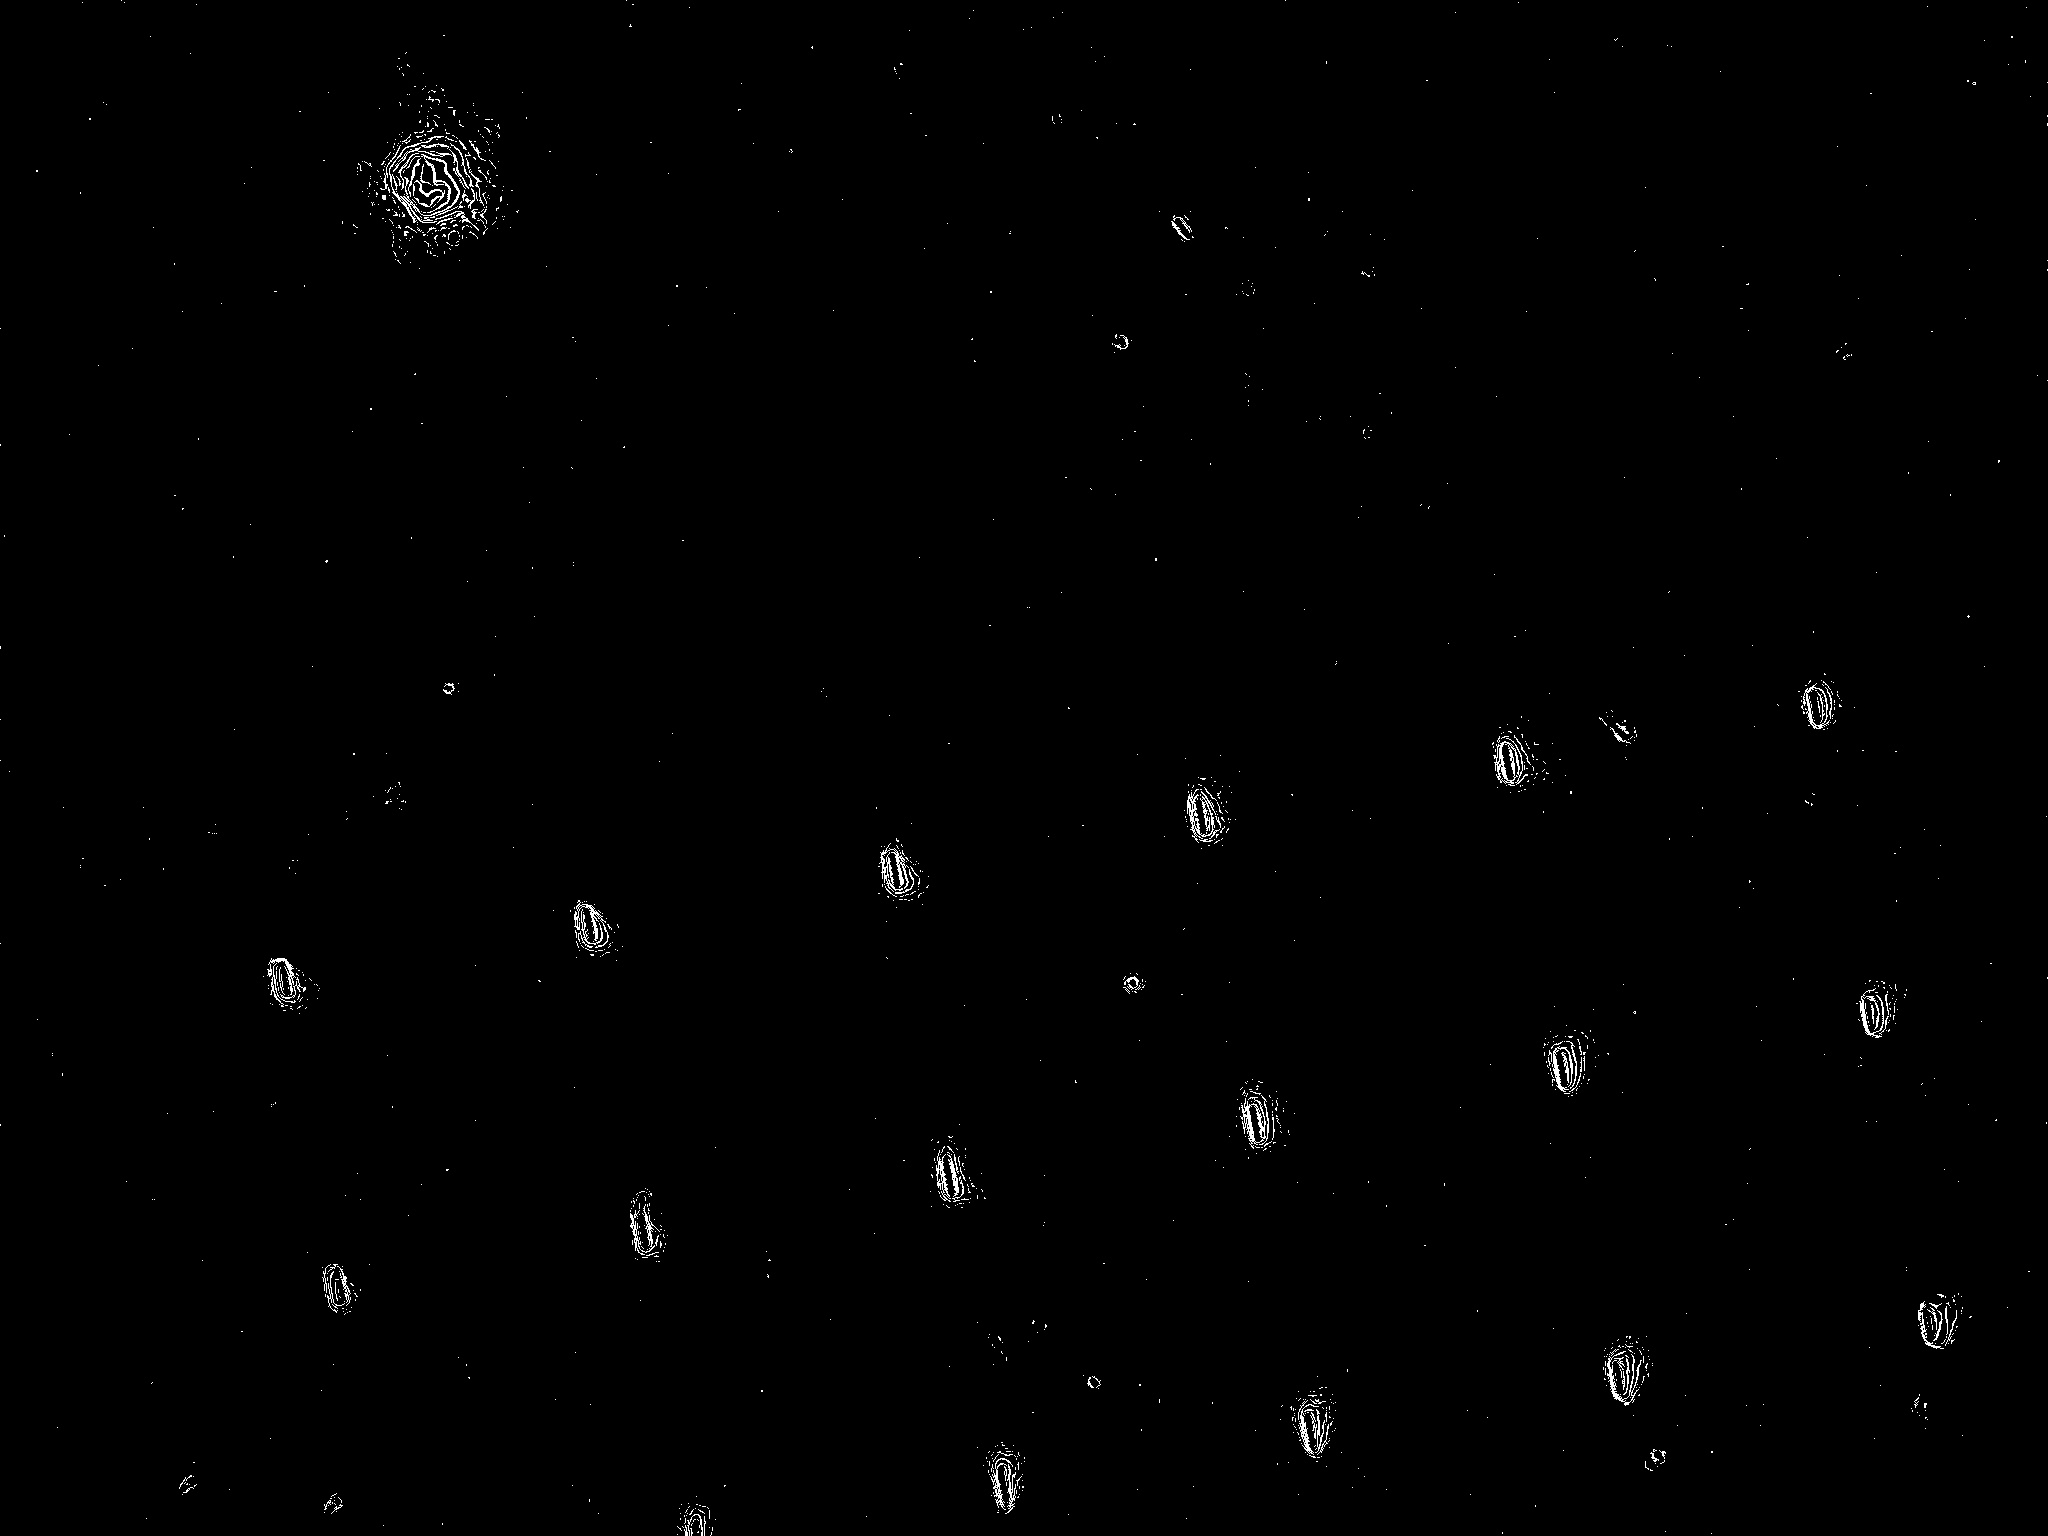
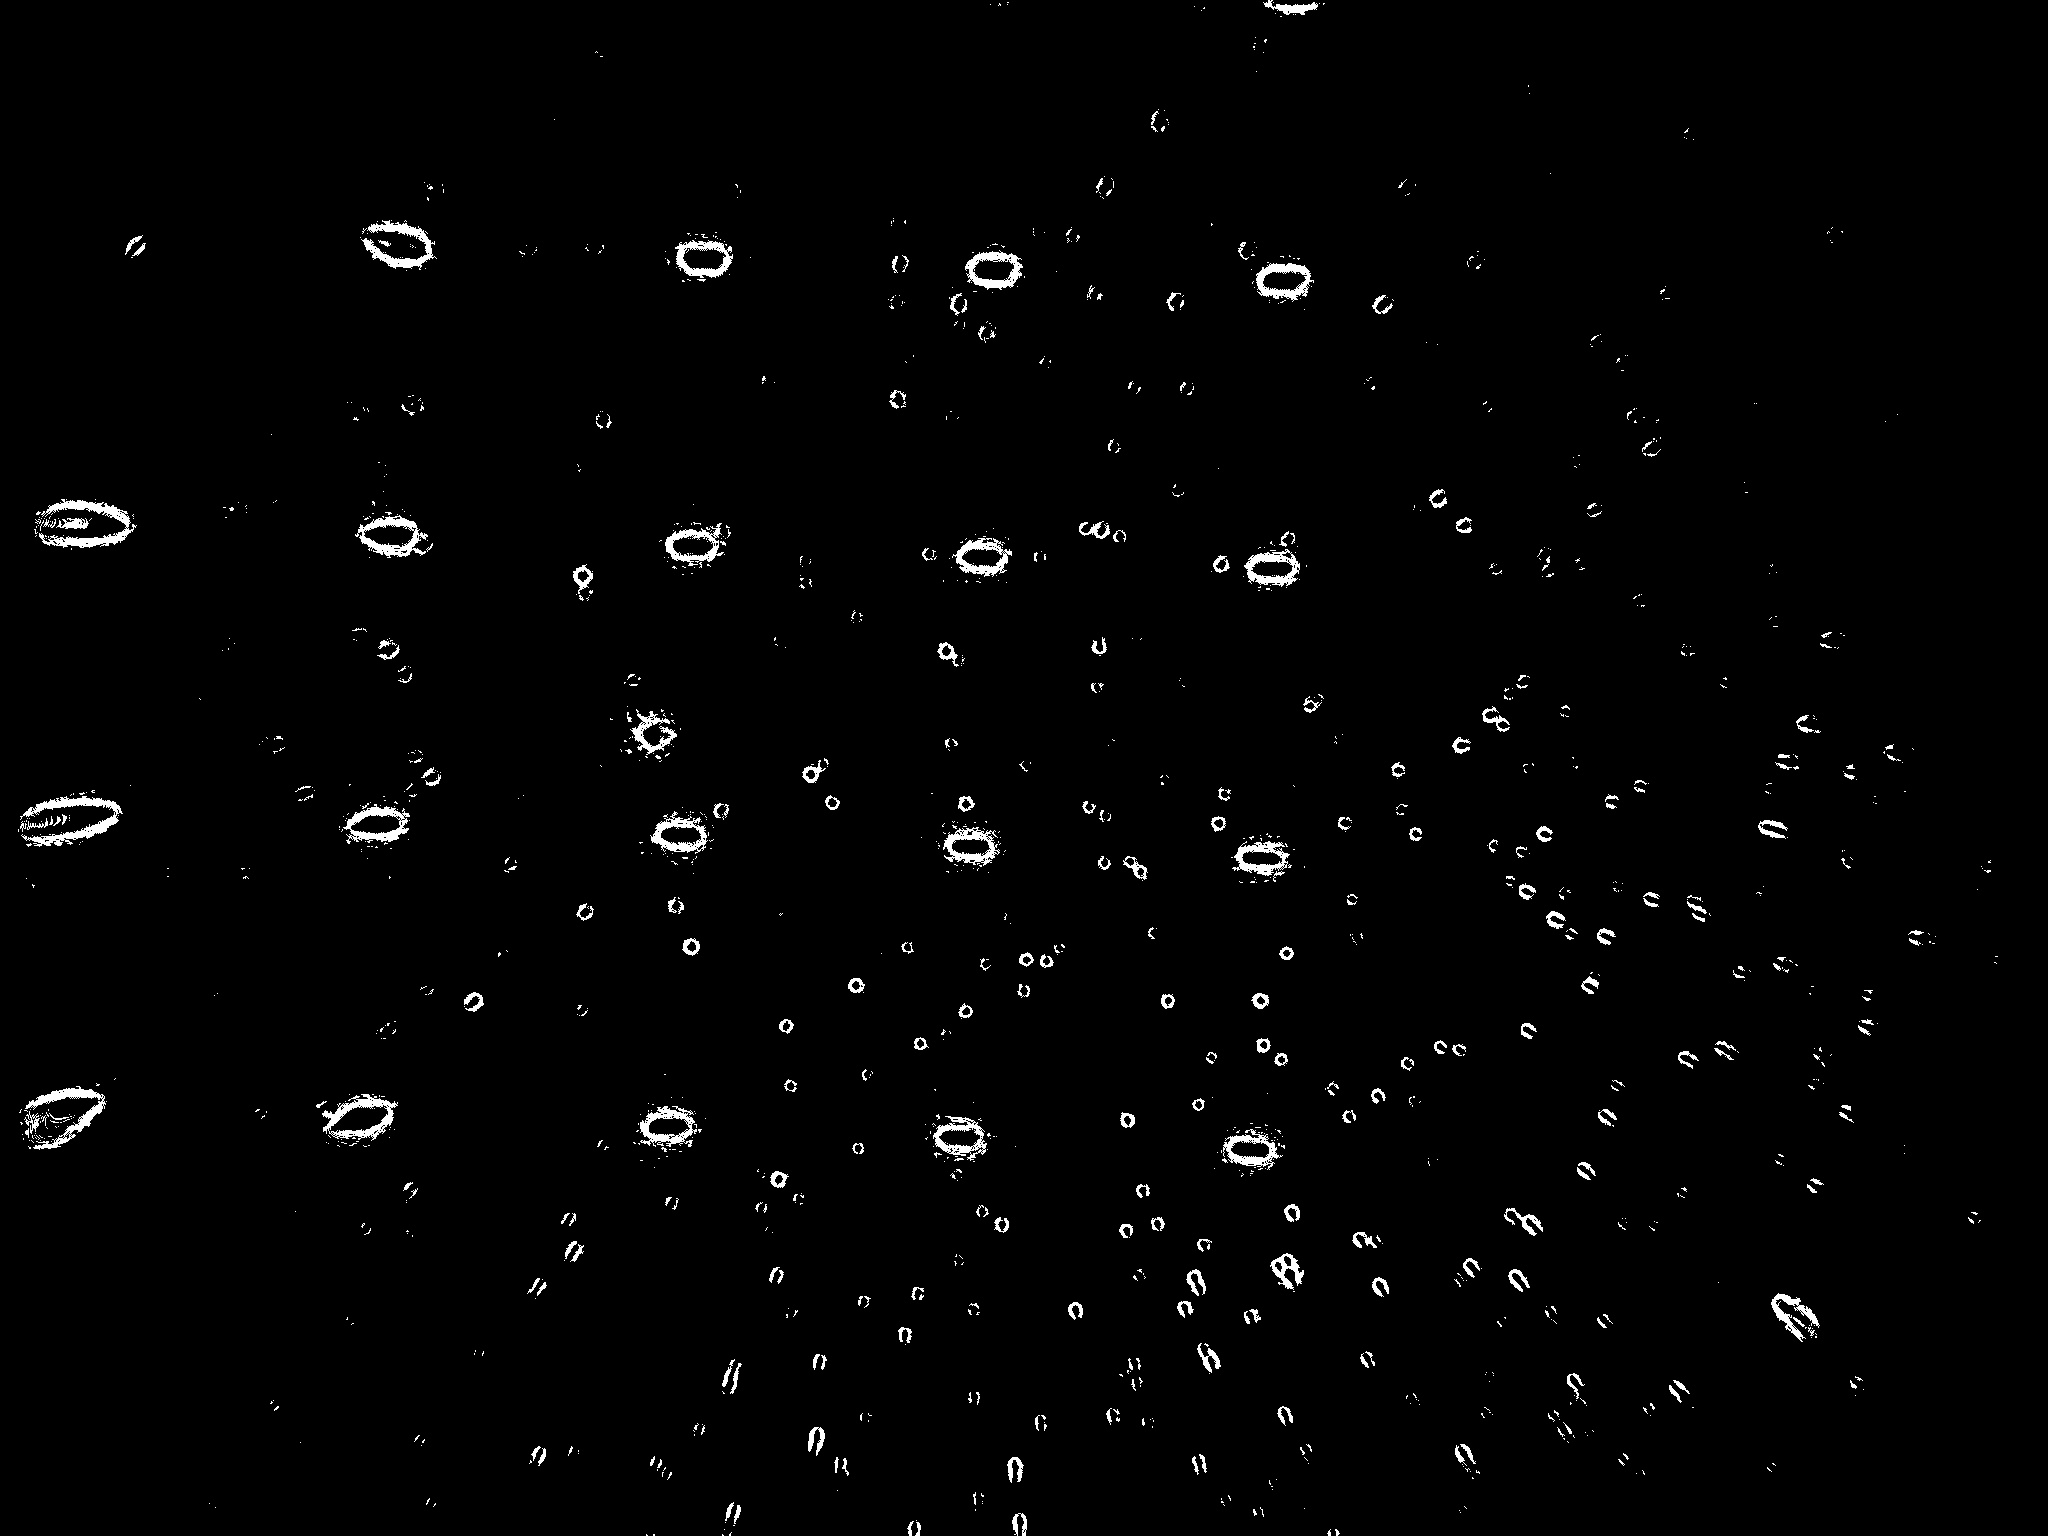
Adjust thresholding

diff --git a/image_processing/adaptive_mean.py b/image_processing/adaptive_mean.py
@@ -1,8 +1,8 @@
 import cv2
 import matplotlib.pyplot as plt
-path = "image_processing/region2_FOV.PNG"
+path = "image_processing/region4_FOV.png"
 
-image = cv2.imread(path, cv2.IMREAD_COLOR)
+image = cv2.imread(path, cv2.IMREAD_GRAYSCALE)
 
 image = cv2.medianBlur(image,5) #removes a lot of noise (and possibly particles)
 
@@ -10,10 +10,10 @@ image = cv2.medianBlur(image,5) #removes a lot of noise (and possibly particles)
 # block size (second to last) must be > 1 and odd
 #adaptive mean
 mean_filtered_image = cv2.adaptiveThreshold(image, 255,cv2.ADAPTIVE_THRESH_MEAN_C,
-                                            cv2.THRESH_BINARY_INV,11,3)
+                                            cv2.THRESH_BINARY_INV,15,3)
 #adaptive gaussian
 gaussian_filtered_image = cv2.adaptiveThreshold(image,255,cv2.ADAPTIVE_THRESH_GAUSSIAN_C,
-                                                cv2.THRESH_BINARY_INV,11,3)
+                                                cv2.THRESH_BINARY_INV,15,3)
 
 # blur testing
 

diff --git a/image_processing/double_thresh.py b/image_processing/double_thresh.py
@@ -1,0 +1,35 @@
+import cv2
+import matplotlib.pyplot as plt
+path = "image_processing/region4_FOV.PNG"
+
+image = cv2.imread(path, cv2.IMREAD_GRAYSCALE)
+image = cv2.GaussianBlur(image,(5,5),0)
+
+#otsu
+otsu_value, otsu_image = cv2.threshold(image,0,255,cv2.THRESH_BINARY+cv2.THRESH_OTSU)
+
+#global threshold
+threshold = 18
+thresh_value, thresh_image = cv2.threshold(image,threshold,255,cv2.THRESH_BINARY)
+
+# Plot the original and filtered images
+plt.figure(figsize=(10, 5))
+
+
+plt.subplot(133)
+plt.imshow(otsu_image, cmap='gray')
+plt.title(f'Otsu\'s Image ({int(otsu_value)})')
+
+plt.subplot(132)
+plt.imshow(thresh_image, cmap='gray')
+plt.title(f'Global Image ({int(thresh_value)})')
+
+plt.subplot(131)
+plt.imshow(image, cmap='gray')
+plt.title('Original Image')
+
+plt.show()
+
+#only writes the images to file after you close the graph window
+cv2.imwrite("image_processing/processed/otsu_thresh.jpg", otsu_image)
+cv2.imwrite("image_processing/processed/global_thresh.jpg", thresh_image)

diff --git a/image_processing/ostu_thresh.py b/image_processing/ostu_thresh.py
@@ -1,11 +1,16 @@
 import cv2
 import matplotlib.pyplot as plt
-path = "image_processing/region2_FOV.PNG"
+path = "image_processing/region4_FOV.PNG"
 
-image = cv2.imread(path, cv2.IMREAD_COLOR)
+image = cv2.imread(path, cv2.IMREAD_GRAYSCALE)
 image = cv2.GaussianBlur(image,(5,5),0)
 
-other, filtered_image = cv2.threshold(image,0,255,cv2.THRESH_BINARY+cv2.THRESH_OTSU)
+#otsu
+#other, filtered_image = cv2.threshold(image,0,255,cv2.THRESH_BINARY+cv2.THRESH_OTSU)
+
+#global threshold (for testing)
+other, filtered_image = cv2.threshold(image,20,255,cv2.THRESH_BINARY)
+
 # Plot the original and filtered images
 plt.figure(figsize=(10, 5))
 plt.subplot(121)

diff --git a/image_processing/fourier.py b/image_processing/fourier.py
@@ -1,7 +1,17 @@
 import cv2
 import matplotlib.pyplot as plt
 import numpy as np
-path = "image_processing/region2_FOV.PNG"
+path = "image_processing/region4_FOV.PNG"
+
+"""
+After looking into filters on the fourier domain a bit more, this doesn't seem like a useful
+    technique for this application, it can help remove noise but it seems like it will erase
+    some particles and/or have the same problem the adaptive mean had where it segments "hollow" shapes.
+    It's definitely possible to fill the donut shaped particles but 
+    it's more of a pain than it's worth IMO
+"""
+
+
 
 image = cv2.imread(path, cv2.IMREAD_COLOR)
 # UNFINISHED

diff --git a/image_processing/laplace_of_gaussian.py b/image_processing/laplace_of_gaussian.py
@@ -1,9 +1,9 @@
 import cv2
 import matplotlib.pyplot as plt
 
-path = "image_processing/region2_FOV.PNG"
+path = "image_processing/region4_FOV.png"
 
-image = cv2.imread(path, cv2.IMREAD_COLOR)
+image = cv2.imread(path, cv2.IMREAD_GRAYSCALE)
 image = cv2.GaussianBlur(image, (3, 3), 0)
 image_gray = cv2.cvtColor(image, cv2.COLOR_BGR2GRAY)
 filtered_image = cv2.Laplacian(image_gray, cv2.CV_16S, ksize=3)
